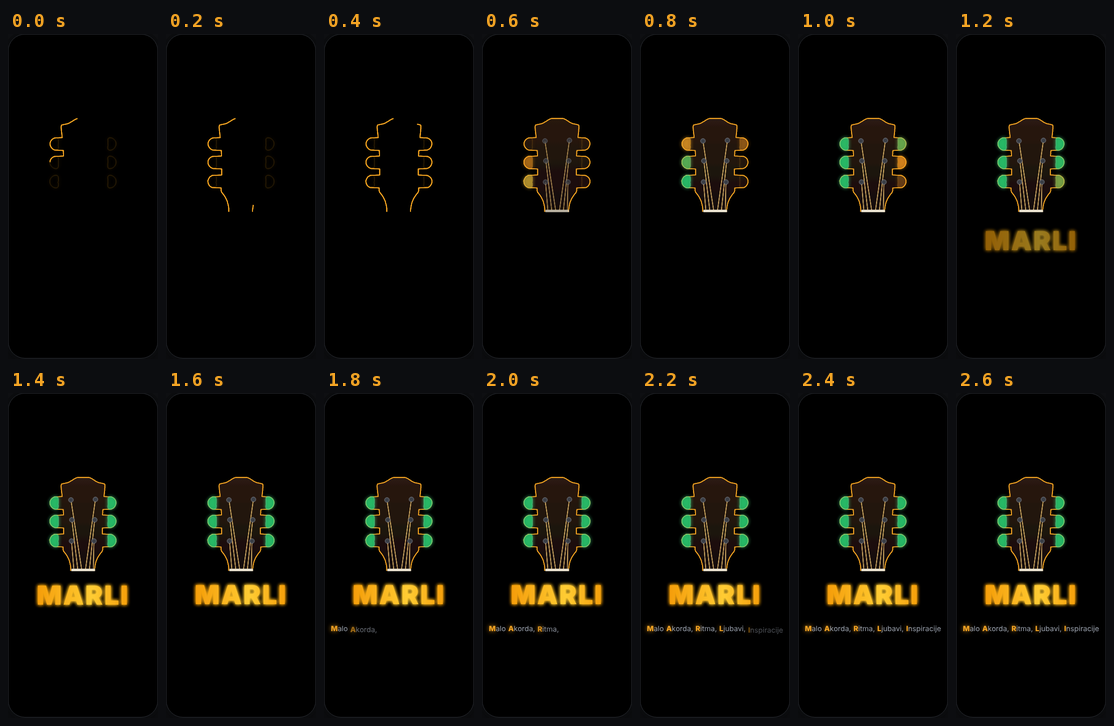
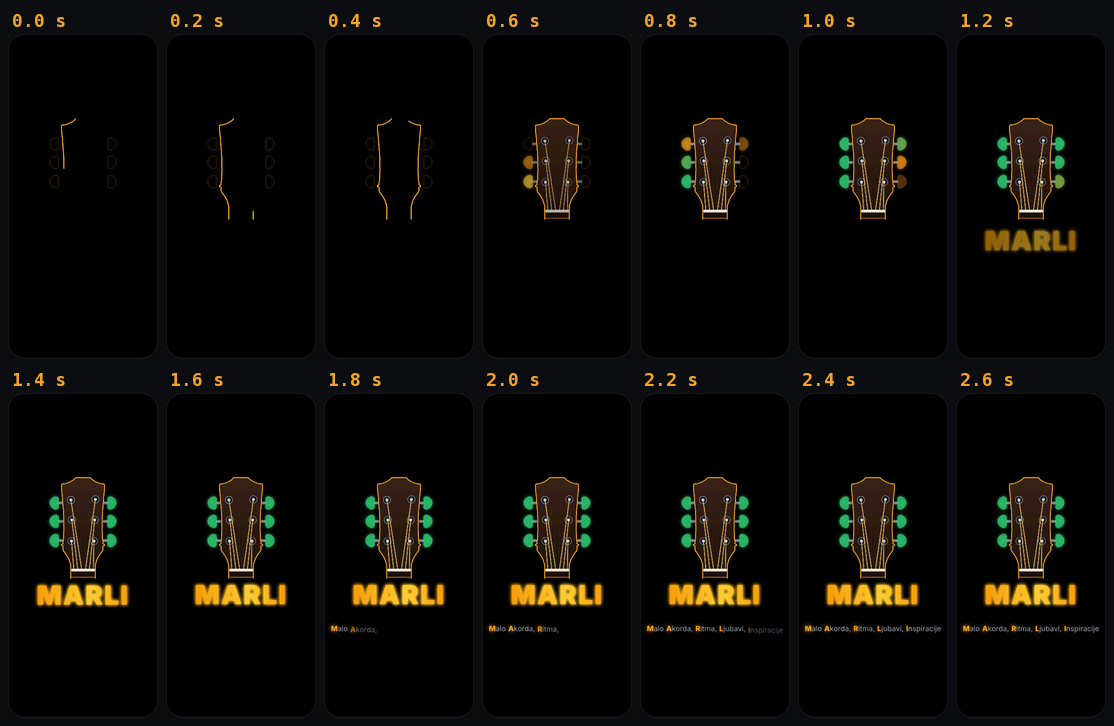
MARLI, faza 1: detaljnija i vitkija silueta glave gitare iz tunera (obris drveta, ključevi sa osovinama, klinovi, žice, sedlo) u ikonici B i animaciji 4b
Claude-Session: https://claude.ai/code/session_01NDUSKUN97fWP9dPBbYtahr

diff --git a/docs/marli/index.html b/docs/marli/index.html
@@ -218,7 +218,7 @@
     </div>
     <div class="card anim-card">
       <h3><span class="tag">4b</span> Čivije — silueta iz tunera</h3>
-      <p class="muted small">Obris iste glave gitare iz tunera se iscrta zlatnom linijom (kao ikonica B), ključevi se uštimuju jedan po jedan, a ispod izraste MARLI. Zatim reč po reč.</p>
+      <p class="muted small">Detaljna silueta iste glave gitare iz tunera (obris, ključevi, klinovi, žice, sedlo) se iscrta zlatnom linijom — ista kao ikonica B. Ključevi se uštimuju jedan po jedan, a ispod izraste MARLI. Zatim reč po reč.</p>
       <div class="phone a4b" id="ph4b"></div>
       <div class="timeline"><b></b></div>
       <div class="row"><button class="btn primary" data-replay="4b">↻ Pusti ponovo</button><button class="btn" data-slow="4b">🐢 Usporeno 4×</button></div>
@@ -301,11 +301,25 @@ function wavePath(x0, x1, y, amp, waves = 2, phase = 0, step = 4) {
 // Ikonice (512 × 512, bez zaobljenja — zaobljenje/krug radi sistem)
 // ------------------------------------------------------------------------------------------------
 // Glava gitare iz tunera: fotografija assets/headstock.webp (926 × 1205), obris (silueta) i tačni obrisi šest ključeva (src/headstockKnobs.js)
-const HS = { W: 926, H: 1205, img: '../../assets/headstock.webp', sil: '402,18 386,24 374,30 364,36 354,42 346,48 336,54 324,60 316,66 302,72 286,78 256,84 228,90 224,96 224,102 222,108 222,114 222,120 222,126 224,132 224,138 224,144 224,150 226,156 226,162 226,168 228,174 228,180 228,186 230,192 230,198 232,204 232,210 232,216 232,222 234,228 148,234 136,240 126,246 120,252 114,258 110,264 106,270 104,276 102,282 100,288 100,294 100,300 100,306 102,312 102,318 106,324 108,330 112,336 116,342 122,348 128,354 136,360 150,366 246,372 246,378 246,384 246,390 248,396 246,402 248,408 248,414 248,420 248,426 248,432 146,438 134,444 124,450 118,456 112,462 108,468 106,474 102,480 100,486 100,492 100,498 100,504 100,510 100,516 102,522 104,528 108,534 110,540 116,546 122,552 128,558 138,564 152,570 250,576 250,582 250,588 250,594 250,600 250,606 250,612 250,618 250,624 250,630 250,636 250,642 142,648 136,654 124,660 116,666 114,672 110,678 106,684 104,690 102,696 100,702 96,708 98,714 98,720 100,726 102,732 102,738 106,744 108,750 112,756 116,762 122,768 132,774 142,780 244,786 244,792 244,798 244,804 244,810 244,816 246,822 248,828 250,834 256,840 260,846 264,852 270,858 274,864 278,870 282,876 286,882 290,888 292,894 296,900 298,906 302,912 304,918 308,924 310,930 312,936 314,942 314,948 316,954 318,960 320,966 322,972 322,978 324,984 326,990 326,996 326,1002 328,1008 328,1014 328,1020 328,1026 328,1032 328,1038 328,1044 328,1050 328,1056 328,1062 330,1068 332,1074 350,1080 348,1086 342,1092 334,1098 334,1104 334,1110 330,1116 330,1122 330,1128 330,1134 330,1140 330,1146 330,1152 330,1158 330,1164 330,1170 332,1176 332,1182 332,1188 328,1194 328,1200 592,1200 592,1194 592,1188 590,1182 590,1176 590,1170 590,1164 590,1158 590,1152 590,1146 590,1140 590,1134 590,1128 590,1122 590,1116 590,1110 590,1104 590,1098 590,1092 588,1086 588,1080 588,1074 588,1068 590,1062 590,1056 590,1050 590,1044 590,1038 590,1032 590,1026 592,1020 592,1014 594,1008 594,1002 596,996 596,990 598,984 598,978 600,972 602,966 602,960 604,954 606,948 608,942 610,936 612,930 616,924 618,918 620,912 624,906 626,900 630,894 634,888 638,882 642,876 646,870 650,864 654,858 658,852 664,846 670,840 672,834 676,828 678,822 680,816 680,810 680,804 680,798 680,792 680,786 784,780 794,774 802,768 808,762 812,756 816,750 820,744 822,738 824,732 826,726 826,720 826,714 826,708 826,702 824,696 822,690 820,684 816,678 812,672 806,666 798,660 790,654 774,648 676,642 676,636 676,630 676,624 676,618 676,612 676,606 676,600 676,594 676,588 676,582 676,576 772,570 788,564 798,558 804,552 810,546 814,540 818,534 820,528 822,522 824,516 826,510 826,504 826,498 826,492 824,486 822,480 820,474 818,468 814,462 808,456 802,450 792,444 780,438 678,432 678,426 678,420 680,414 680,408 680,402 680,396 680,390 680,384 682,378 682,372 776,366 788,360 800,354 806,348 810,342 814,336 816,330 820,324 822,318 824,312 824,306 826,300 826,294 824,288 824,282 822,276 820,270 816,264 812,258 806,252 800,246 790,240 776,234 694,228 694,222 696,216 696,210 696,204 698,198 698,192 698,186 700,180 700,174 700,168 702,162 702,156 702,150 702,144 702,138 704,132 704,126 704,120 704,114 704,108 704,102 704,96 700,90 678,84 648,78 628,72 616,66 604,60 594,54 588,48 576,42 568,36 558,30 546,24 530,18', knobs: [{"id": 0, "cx": 149.3, "cy": 715.2, "pts": "189.9,714.9 188.3,718.8 186.5,722.6 188.3,727.2 189.9,732.3 191.7,737.9 191.5,743.6 191.4,750.1 191.4,757.8 190.3,765.7 187.7,773.1 183.0,778.4 177.1,782.5 170.4,784.6 163.3,785.3 156.2,784.7 149.4,783.1 142.9,781.1 136.8,778.2 131.2,775.1 125.9,771.4 121.2,767.8 116.9,763.8 112.8,759.6 109.5,755.1 106.4,750.4 104.0,745.4 101.8,740.6 100.1,735.5 98.7,730.5 97.8,725.4 97.3,720.2 97.4,715.2 97.3,710.0 97.8,704.8 98.3,699.6 99.8,694.7 101.5,689.6 104.0,684.8 106.6,680.1 109.7,675.5 113.1,670.9 116.9,666.5 121.1,662.4 125.9,658.7 131.1,655.0 136.8,652.0 142.9,649.4 149.4,647.3 156.2,645.8 163.3,645.0 170.4,645.6 177.2,647.6 183.3,651.3 187.9,656.8 190.4,664.4 191.4,672.4 191.4,680.1 191.5,686.6 191.7,692.3 191.7,697.5 191.8,702.2 191.8,706.6 191.7,711.0"}, {"id": 1, "cx": 149.7, "cy": 502.7, "pts": "191.6,502.7 191.8,506.9 191.5,511.0 191.5,515.5 191.4,520.2 191.7,525.4 191.6,530.9 191.6,537.4 191.4,544.9 190.4,552.7 187.9,560.2 183.3,566.0 177.6,570.0 170.8,572.0 163.7,572.5 156.7,571.9 149.9,570.2 143.4,568.0 137.5,565.0 132.0,561.9 126.9,558.4 122.1,554.7 117.9,550.6 114.0,546.5 110.6,542.0 107.7,537.4 105.2,532.6 102.7,527.9 100.8,523.1 99.4,518.0 98.2,513.0 97.5,507.9 97.1,502.7 97.1,497.5 97.4,492.4 98.5,487.2 99.9,482.0 102.0,477.2 104.1,472.1 106.9,467.5 109.9,462.8 113.6,458.6 117.6,454.5 121.9,450.4 126.6,446.7 131.9,443.4 137.5,440.7 143.5,437.9 149.9,435.8 156.6,434.2 163.6,433.6 170.7,433.9 177.4,436.0 183.3,439.7 187.9,445.2 190.5,452.6 191.4,460.6 191.6,468.0 191.6,474.5 191.7,480.1 191.8,485.3 191.9,489.8 191.8,494.3 191.8,498.6"}, {"id": 2, "cx": 149.9, "cy": 299.2, "pts": "191.5,299.2 191.4,303.3 190.2,307.2 188.7,310.9 188.8,315.6 189.9,321.0 191.5,327.3 191.4,333.5 191.2,341.0 190.2,348.8 187.8,356.2 183.2,361.6 177.4,365.5 170.7,367.5 163.8,368.6 156.9,368.1 150.1,366.8 143.6,364.5 137.7,361.6 132.1,358.2 127.0,354.8 122.2,351.3 118.0,347.2 114.3,342.8 111.2,338.0 108.2,333.5 105.7,328.7 103.6,324.0 101.9,319.1 100.7,314.1 99.3,309.3 98.7,304.3 98.2,299.2 98.3,294.1 98.6,289.0 99.4,283.8 100.7,278.7 102.5,273.8 104.8,269.0 107.4,264.3 110.5,259.7 113.9,255.2 118.0,251.2 122.3,247.5 127.1,243.9 132.2,240.5 137.8,237.3 143.7,234.5 150.0,232.4 156.8,231.1 163.6,230.8 170.7,231.1 177.2,233.4 183.2,236.8 187.7,242.3 190.3,249.4 191.2,257.4 191.4,264.9 191.5,271.1 191.6,276.8 191.6,281.7 191.6,286.4 191.6,290.9 191.8,295.1"}, {"id": 3, "cx": 777.1, "cy": 299.4, "pts": "827.4,299.3 827.0,304.3 826.5,309.2 825.4,314.0 823.8,318.7 821.6,323.2 819.6,327.9 817.5,332.7 815.1,337.5 812.0,342.1 808.4,346.4 804.3,350.5 799.8,354.5 794.8,358.2 789.2,361.1 783.3,364.0 776.9,366.3 770.2,368.0 763.2,368.6 756.2,368.0 749.3,366.3 743.3,362.7 738.9,357.0 736.4,349.5 735.7,341.3 735.6,333.8 736.9,326.7 738.1,320.5 739.3,315.1 739.2,310.9 738.9,307.0 738.6,303.2 738.2,299.4 737.9,295.5 737.9,291.6 737.9,287.5 738.3,283.2 738.3,278.5 738.4,273.3 738.5,267.4 737.6,259.2 737.4,250.3 738.9,241.8 743.4,236.2 749.4,232.8 756.3,231.0 763.3,230.6 770.2,231.2 777.0,232.6 783.3,234.6 789.3,237.3 794.8,240.5 799.8,244.3 804.5,247.9 808.8,251.8 812.8,255.8 816.2,260.3 819.0,264.9 821.5,269.7 823.7,274.5 825.4,279.3 826.4,284.4 827.1,289.4 827.3,294.4"}, {"id": 4, "cx": 776.8, "cy": 502.6, "pts": "827.7,502.6 827.4,507.7 826.6,512.6 825.7,517.5 824.3,522.4 822.7,527.2 820.5,532.0 818.1,536.7 815.4,541.4 811.9,545.6 808.2,549.8 804.0,553.7 799.4,557.7 794.5,561.4 789.0,564.8 783.0,567.4 776.7,569.5 770.0,570.8 762.9,571.8 755.6,571.9 748.7,570.4 742.6,567.0 738.4,560.7 736.3,552.7 735.6,544.4 735.6,536.8 735.4,530.6 735.4,524.9 735.2,520.0 736.2,515.1 737.3,510.7 738.3,506.5 738.4,502.6 738.3,498.9 738.4,495.0 738.3,490.9 738.5,486.7 738.5,482.0 737.5,476.0 736.6,469.1 735.6,460.9 736.4,452.8 738.8,445.4 743.2,439.6 749.1,435.8 755.9,433.8 762.9,433.6 770.0,434.3 776.7,435.7 783.0,437.7 789.0,440.4 794.6,443.4 799.9,446.8 804.6,450.4 808.8,454.6 812.6,459.0 816.0,463.4 819.1,467.8 821.8,472.6 824.0,477.4 825.6,482.4 826.7,487.5 827.3,492.6 827.8,497.7"}, {"id": 5, "cx": 777, "cy": 715.2, "pts": "828.0,715.2 827.9,720.2 827.4,725.3 826.3,730.2 825.1,735.2 823.3,740.0 821.5,745.1 819.0,749.9 816.3,754.6 812.8,759.0 809.1,763.5 804.9,767.6 800.2,771.3 795.0,774.8 789.3,777.9 783.4,780.7 776.9,782.9 770.1,784.5 762.9,785.4 755.8,785.1 748.9,783.3 742.7,779.6 738.4,773.5 736.3,765.5 735.7,757.1 735.6,749.6 736.4,742.8 737.3,736.7 738.2,731.4 738.2,727.1 738.2,723.0 737.8,719.0 737.7,715.2 737.4,711.3 737.5,707.3 737.6,703.2 737.9,698.9 738.2,694.3 737.4,688.4 736.5,681.5 735.7,673.4 736.2,664.7 738.4,657.0 742.7,651.1 749.0,647.7 755.9,645.6 762.9,644.8 770.0,645.5 776.9,647.1 783.3,649.6 789.3,652.6 794.9,656.0 800.1,659.5 804.8,663.0 809.0,667.1 812.8,671.5 816.2,676.0 819.5,680.3 822.1,685.0 824.1,690.0 825.5,695.0 826.6,700.1 827.4,705.2 827.9,710.2"}] };
+const HS = { W: 926, H: 1205, img: '../../assets/headstock.webp', sil: '384,20 377,26 372,32 366,38 359,44 350,50 340,56 329,62 322,68 304,74 289,80 268,86 230,92 227,98 226,104 226,110 226,116 226,122 226,128 226,134 227,140 227,146 227,152 228,158 228,164 228,170 229,176 229,182 230,188 231,194 233,200 233,206 234,212 234,218 234,224 235,230 236,236 236,242 237,248 237,254 237,260 238,266 238,272 238,278 238,284 238,290 239,296 240,302 240,308 240,314 243,320 243,326 243,332 243,338 243,344 243,350 244,356 245,362 246,368 246,374 247,380 247,386 248,392 249,398 249,404 249,410 249,416 249,422 249,428 250,434 250,440 251,446 251,452 251,458 251,464 251,470 251,476 251,482 251,488 251,494 251,500 251,506 251,512 251,518 251,524 251,530 251,536 251,542 251,548 251,554 251,560 252,566 252,572 252,578 252,584 252,590 252,596 252,602 251,608 251,614 251,620 251,626 251,632 251,638 250,644 250,650 250,656 250,662 250,668 250,674 250,680 250,686 249,692 248,698 248,704 248,710 243,716 243,722 243,728 243,734 243,740 243,746 243,752 226,758 226,764 226,770 244,776 244,782 244,788 244,794 244,800 244,806 244,812 245,818 246,824 248,830 254,836 259,842 264,848 267,854 272,860 276,866 280,872 284,878 288,884 291,890 294,896 297,902 301,908 303,914 309,920 310,926 311,932 315,938 316,944 316,950 319,956 320,962 324,968 325,974 326,980 327,986 328,992 328,998 328,1004 328,1010 328,1016 328,1022 328,1205 598,1205 598,1022 598,1016 598,1010 598,1004 598,998 598,992 599,986 600,980 601,974 602,968 606,962 607,956 610,950 610,944 611,938 615,932 616,926 617,920 623,914 625,908 629,902 632,896 635,890 638,884 642,878 646,872 650,866 654,860 659,854 662,848 667,842 672,836 678,830 680,824 681,818 682,812 682,806 682,800 682,794 682,788 682,782 682,776 700,770 700,764 700,758 683,752 683,746 683,740 683,734 683,728 683,722 683,716 678,710 678,704 678,698 677,692 676,686 676,680 676,674 676,668 676,662 676,656 676,650 676,644 675,638 675,632 675,626 675,620 675,614 675,608 674,602 674,596 674,590 674,584 674,578 674,572 674,566 675,560 675,554 675,548 675,542 675,536 675,530 675,524 675,518 675,512 675,506 675,500 675,494 675,488 675,482 675,476 675,470 675,464 675,458 675,452 675,446 676,440 676,434 677,428 677,422 677,416 677,410 677,404 677,398 678,392 679,386 679,380 680,374 680,368 681,362 682,356 683,350 683,344 683,338 683,332 683,326 683,320 686,314 686,308 686,302 687,296 688,290 688,284 688,278 688,272 688,266 689,260 689,254 689,248 690,242 690,236 691,230 692,224 692,218 692,212 693,206 693,200 695,194 696,188 697,182 697,176 698,170 698,164 698,158 699,152 699,146 699,140 700,134 700,128 700,122 700,116 700,110 700,104 699,98 696,92 658,86 637,80 622,74 604,68 597,62 586,56 576,50 567,44 560,38 554,32 549,26 542,20', knobs: [{"id": 0, "cx": 149.3, "cy": 715.2, "pts": "189.9,714.9 188.3,718.8 186.5,722.6 188.3,727.2 189.9,732.3 191.7,737.9 191.5,743.6 191.4,750.1 191.4,757.8 190.3,765.7 187.7,773.1 183.0,778.4 177.1,782.5 170.4,784.6 163.3,785.3 156.2,784.7 149.4,783.1 142.9,781.1 136.8,778.2 131.2,775.1 125.9,771.4 121.2,767.8 116.9,763.8 112.8,759.6 109.5,755.1 106.4,750.4 104.0,745.4 101.8,740.6 100.1,735.5 98.7,730.5 97.8,725.4 97.3,720.2 97.4,715.2 97.3,710.0 97.8,704.8 98.3,699.6 99.8,694.7 101.5,689.6 104.0,684.8 106.6,680.1 109.7,675.5 113.1,670.9 116.9,666.5 121.1,662.4 125.9,658.7 131.1,655.0 136.8,652.0 142.9,649.4 149.4,647.3 156.2,645.8 163.3,645.0 170.4,645.6 177.2,647.6 183.3,651.3 187.9,656.8 190.4,664.4 191.4,672.4 191.4,680.1 191.5,686.6 191.7,692.3 191.7,697.5 191.8,702.2 191.8,706.6 191.7,711.0"}, {"id": 1, "cx": 149.7, "cy": 502.7, "pts": "191.6,502.7 191.8,506.9 191.5,511.0 191.5,515.5 191.4,520.2 191.7,525.4 191.6,530.9 191.6,537.4 191.4,544.9 190.4,552.7 187.9,560.2 183.3,566.0 177.6,570.0 170.8,572.0 163.7,572.5 156.7,571.9 149.9,570.2 143.4,568.0 137.5,565.0 132.0,561.9 126.9,558.4 122.1,554.7 117.9,550.6 114.0,546.5 110.6,542.0 107.7,537.4 105.2,532.6 102.7,527.9 100.8,523.1 99.4,518.0 98.2,513.0 97.5,507.9 97.1,502.7 97.1,497.5 97.4,492.4 98.5,487.2 99.9,482.0 102.0,477.2 104.1,472.1 106.9,467.5 109.9,462.8 113.6,458.6 117.6,454.5 121.9,450.4 126.6,446.7 131.9,443.4 137.5,440.7 143.5,437.9 149.9,435.8 156.6,434.2 163.6,433.6 170.7,433.9 177.4,436.0 183.3,439.7 187.9,445.2 190.5,452.6 191.4,460.6 191.6,468.0 191.6,474.5 191.7,480.1 191.8,485.3 191.9,489.8 191.8,494.3 191.8,498.6"}, {"id": 2, "cx": 149.9, "cy": 299.2, "pts": "191.5,299.2 191.4,303.3 190.2,307.2 188.7,310.9 188.8,315.6 189.9,321.0 191.5,327.3 191.4,333.5 191.2,341.0 190.2,348.8 187.8,356.2 183.2,361.6 177.4,365.5 170.7,367.5 163.8,368.6 156.9,368.1 150.1,366.8 143.6,364.5 137.7,361.6 132.1,358.2 127.0,354.8 122.2,351.3 118.0,347.2 114.3,342.8 111.2,338.0 108.2,333.5 105.7,328.7 103.6,324.0 101.9,319.1 100.7,314.1 99.3,309.3 98.7,304.3 98.2,299.2 98.3,294.1 98.6,289.0 99.4,283.8 100.7,278.7 102.5,273.8 104.8,269.0 107.4,264.3 110.5,259.7 113.9,255.2 118.0,251.2 122.3,247.5 127.1,243.9 132.2,240.5 137.8,237.3 143.7,234.5 150.0,232.4 156.8,231.1 163.6,230.8 170.7,231.1 177.2,233.4 183.2,236.8 187.7,242.3 190.3,249.4 191.2,257.4 191.4,264.9 191.5,271.1 191.6,276.8 191.6,281.7 191.6,286.4 191.6,290.9 191.8,295.1"}, {"id": 3, "cx": 777.1, "cy": 299.4, "pts": "827.4,299.3 827.0,304.3 826.5,309.2 825.4,314.0 823.8,318.7 821.6,323.2 819.6,327.9 817.5,332.7 815.1,337.5 812.0,342.1 808.4,346.4 804.3,350.5 799.8,354.5 794.8,358.2 789.2,361.1 783.3,364.0 776.9,366.3 770.2,368.0 763.2,368.6 756.2,368.0 749.3,366.3 743.3,362.7 738.9,357.0 736.4,349.5 735.7,341.3 735.6,333.8 736.9,326.7 738.1,320.5 739.3,315.1 739.2,310.9 738.9,307.0 738.6,303.2 738.2,299.4 737.9,295.5 737.9,291.6 737.9,287.5 738.3,283.2 738.3,278.5 738.4,273.3 738.5,267.4 737.6,259.2 737.4,250.3 738.9,241.8 743.4,236.2 749.4,232.8 756.3,231.0 763.3,230.6 770.2,231.2 777.0,232.6 783.3,234.6 789.3,237.3 794.8,240.5 799.8,244.3 804.5,247.9 808.8,251.8 812.8,255.8 816.2,260.3 819.0,264.9 821.5,269.7 823.7,274.5 825.4,279.3 826.4,284.4 827.1,289.4 827.3,294.4"}, {"id": 4, "cx": 776.8, "cy": 502.6, "pts": "827.7,502.6 827.4,507.7 826.6,512.6 825.7,517.5 824.3,522.4 822.7,527.2 820.5,532.0 818.1,536.7 815.4,541.4 811.9,545.6 808.2,549.8 804.0,553.7 799.4,557.7 794.5,561.4 789.0,564.8 783.0,567.4 776.7,569.5 770.0,570.8 762.9,571.8 755.6,571.9 748.7,570.4 742.6,567.0 738.4,560.7 736.3,552.7 735.6,544.4 735.6,536.8 735.4,530.6 735.4,524.9 735.2,520.0 736.2,515.1 737.3,510.7 738.3,506.5 738.4,502.6 738.3,498.9 738.4,495.0 738.3,490.9 738.5,486.7 738.5,482.0 737.5,476.0 736.6,469.1 735.6,460.9 736.4,452.8 738.8,445.4 743.2,439.6 749.1,435.8 755.9,433.8 762.9,433.6 770.0,434.3 776.7,435.7 783.0,437.7 789.0,440.4 794.6,443.4 799.9,446.8 804.6,450.4 808.8,454.6 812.6,459.0 816.0,463.4 819.1,467.8 821.8,472.6 824.0,477.4 825.6,482.4 826.7,487.5 827.3,492.6 827.8,497.7"}, {"id": 5, "cx": 777, "cy": 715.2, "pts": "828.0,715.2 827.9,720.2 827.4,725.3 826.3,730.2 825.1,735.2 823.3,740.0 821.5,745.1 819.0,749.9 816.3,754.6 812.8,759.0 809.1,763.5 804.9,767.6 800.2,771.3 795.0,774.8 789.3,777.9 783.4,780.7 776.9,782.9 770.1,784.5 762.9,785.4 755.8,785.1 748.9,783.3 742.7,779.6 738.4,773.5 736.3,765.5 735.7,757.1 735.6,749.6 736.4,742.8 737.3,736.7 738.2,731.4 738.2,727.1 738.2,723.0 737.8,719.0 737.7,715.2 737.4,711.3 737.5,707.3 737.6,703.2 737.9,698.9 738.2,694.3 737.4,688.4 736.5,681.5 735.7,673.4 736.2,664.7 738.4,657.0 742.7,651.1 749.0,647.7 755.9,645.6 762.9,644.8 770.0,645.5 776.9,647.1 783.3,649.6 789.3,652.6 794.9,656.0 800.1,659.5 804.8,663.0 809.0,667.1 812.8,671.5 816.2,676.0 819.5,680.3 822.1,685.0 824.1,690.0 825.5,695.0 826.6,700.1 827.4,705.2 827.9,710.2"}] };
 // žice od klinova do sedla, kao na fotografiji (koordinate fotografije)
 const HS_POST = [[336, 720], [340, 486], [330, 266], [600, 260], [592, 486], [584, 720]], HS_NUT = [362, 405, 448, 491, 534, 577];
 const HS_STRINGS = HS_POST.map(([x, y], i) => `<line x1="${x}" y1="${y}" x2="${HS_NUT[i]}" y2="1030"/>`).join('');
 const HS_POSTS = HS_POST.map(([x, y]) => `<circle cx="${x}" cy="${y}" r="26"/>`).join('');
+// Detaljna silueta glave gitare iz tunera: obris drveta, šest ključeva sa osovinama, klinovi sa podloškama, žice, sedlo, vrat
+const HS_POSTS2 = HS_POST.map(([x, y]) => `<circle cx="${x}" cy="${y}" r="40" fill="#0d0d0f" stroke="#9aa1ad" stroke-width="6"/><circle cx="${x}" cy="${y}" r="17" fill="#c9ced6"/>`).join('');
+const HS_SHAFTS = HS.knobs.map((k) => { const left = k.cx < 463, x0 = left ? k.cx + 40 : 686, x1 = left ? 240 : k.cx - 40; return `<rect x="${Math.min(x0, x1)}" y="${k.cy - 12}" width="${Math.abs(x1 - x0)}" height="24" rx="6"/>`; }).join('');
+function hsDetail(id, g, { cls = false } = {}) {
+  const c = (n) => (cls ? ` class="${n}"` : '');
+  const grain = [400, 445, 485, 525].map((x, i) => `<path d="M${x},${90 + i * 14} C${x - 8},420 ${x + 10},700 ${x - 4},1000" />`).join('');
+  return `<polygon${c('hsil')} pathLength="1" points="${HS.sil}" fill="url(#wd${id})" stroke="${GOLD}" stroke-width="9" stroke-linejoin="round" filter="url(#${g})"/>
+    <g${c('hstr')} fill="none" stroke="#3a2418" stroke-width="5" opacity=".9">${grain}</g>
+    <g${c('hstr')} fill="#7a808a" stroke="#c9ced6" stroke-width="3">${HS_SHAFTS}</g>
+    <g${c('hstr')}>${HS_POSTS2}</g>
+    <g${c('hstr')} stroke="${CORE}" stroke-width="5" filter="url(#${g})">${HS_STRINGS}</g>
+    <rect${c('hstr')} x="334" y="1026" width="262" height="30" rx="8" fill="#efe6d2"/>
+    <g${c('hstr')} stroke="${GOLD}" stroke-width="6" opacity=".7"><line x1="332" y1="1120" x2="594" y2="1120"/></g>`;
+}
 const ICONS = {
   A: {
     name: 'Žica ispisuje ime',
@@ -328,22 +342,20 @@ const ICONS = {
   },
   B: {
     name: 'Glava gitare (silueta iz tunera)',
-    note: 'Obris glave gitare iz tunera, ključevi sijaju zlatno kao naštimovana žica, ime krupno ispod.',
+    note: 'Detaljna silueta glave gitare iz tunera: obris, ključevi, klinovi, žice i sedlo; ključevi zlatno sijaju. Ime krupno ispod.',
     svg(id) {
-      const g = 'g' + id, k = 0.3, tx = 256 - HS.W * k / 2, ty = 12;
+      const g = 'g' + id, k = 0.3, tx = 256 - HS.W * k / 2, ty = 10;
       const knobs = HS.knobs.map((kn) => `<polygon points="${kn.pts}"/>`).join('');
-      return `<svg viewBox="0 0 512 512" xmlns="http://www.w3.org/2000/svg"><defs>${glowDefs(g, 9)}
+      return `<svg viewBox="0 0 512 512" xmlns="http://www.w3.org/2000/svg"><defs>${glowDefs(g, 8)}
         <linearGradient id="lg${id}" gradientUnits="userSpaceOnUse" x1="0" y1="0" x2="512" y2="0"><stop offset="0" stop-color="#f59e0b"/><stop offset=".6" stop-color="#ffcc33"/><stop offset="1" stop-color="#f59e0b"/></linearGradient>
-        <linearGradient id="wd${id}" x1="0" y1="0" x2="0" y2="1"><stop offset="0" stop-color="#2a1a12"/><stop offset="1" stop-color="#120b07"/></linearGradient>
-        <clipPath id="cl${id}"><rect x="0" y="0" width="${HS.W}" height="1030"/></clipPath></defs>
+        <linearGradient id="wd${id}" x1="0" y1="0" x2="0" y2="1"><stop offset="0" stop-color="#3a2216"/><stop offset="1" stop-color="#1a0f09"/></linearGradient>
+        <clipPath id="cl${id}"><rect x="0" y="0" width="${HS.W}" height="1135"/></clipPath></defs>
         <rect width="512" height="512" fill="#000"/>
         <g transform="translate(${tx.toFixed(1)} ${ty}) scale(${k})" clip-path="url(#cl${id})">
-          <polygon points="${HS.sil}" fill="url(#wd${id})" stroke="${GOLD}" stroke-width="10" stroke-linejoin="round" filter="url(#${g})"/>
+          ${hsDetail(id, g)}
           <g fill="${GOLD}" stroke="${CORE}" stroke-width="6" filter="url(#${g})">${knobs}</g>
-          <g stroke="${CORE}" stroke-width="6" opacity=".9" filter="url(#${g})">${HS_STRINGS}</g><g fill="#3a3e46" stroke="#8a8f99" stroke-width="5">${HS_POSTS}</g>
-          <rect x="334" y="1026" width="262" height="30" rx="8" fill="#e9e1cf"/>
         </g>
-        <text x="256" y="452" text-anchor="middle" font-family="system-ui, -apple-system, 'Segoe UI', Roboto, Arial, sans-serif" font-weight="900" font-size="104" letter-spacing="6" fill="url(#lg${id})" filter="url(#${g})">MARLI</text>
+        <text x="256" y="460" text-anchor="middle" font-family="system-ui, -apple-system, 'Segoe UI', Roboto, Arial, sans-serif" font-weight="900" font-size="104" letter-spacing="6" fill="url(#lg${id})" filter="url(#${g})">MARLI</text>
         </svg>`;
     },
   },
@@ -522,15 +534,15 @@ function headstockAnim(photo) {
   const knobs = HS.knobs.map((kn) => `<polygon class="kn" points="${kn.pts}" style="animation-delay:${(0.42 + order.indexOf(kn.id) * 0.11).toFixed(2)}s"/>`).join('');
   const art = photo
     ? `<image class="hsimg" href="${HS.img}" xlink:href="${HS.img}" width="${HS.W}" height="${HS.H}" mask="url(#mk${id})"/>`
-    : `<polygon class="hsil" pathLength="1" points="${HS.sil}" fill="url(#wd${id})" stroke="${GOLD}" stroke-width="10" stroke-linejoin="round" filter="url(#${g})"/><g class="hstr" stroke="${CORE}" stroke-width="5" filter="url(#${g})">${HS_STRINGS}</g><g class="hstr" fill="#3a3e46" stroke="#8a8f99" stroke-width="5">${HS_POSTS}</g><rect class="hstr" x="334" y="1026" width="262" height="30" rx="8" fill="#e9e1cf"/>`;
+    : hsDetail(id, g, { cls: true });
   return `<div class="stage">
     <svg viewBox="0 0 320 310" width="100%" style="max-width:290px;overflow:visible" aria-label="MARLI" xmlns:xlink="http://www.w3.org/1999/xlink">
       <defs>${glowDefs(g, 4)}<linearGradient id="lg${id}" gradientUnits="userSpaceOnUse" x1="60" y1="0" x2="260" y2="0"><stop offset="0" stop-color="#f59e0b"/><stop offset=".6" stop-color="#ffcc33"/><stop offset="1" stop-color="#f59e0b"/></linearGradient>
         <filter id="kg${id}" filterUnits="userSpaceOnUse" x="-200" y="-200" width="1400" height="1600"><feGaussianBlur stdDeviation="22" result="b"/><feMerge><feMergeNode in="b"/><feMergeNode in="SourceGraphic"/></feMerge></filter>
-        <linearGradient id="wd${id}" x1="0" y1="0" x2="0" y2="1"><stop offset="0" stop-color="#2a1a12"/><stop offset="1" stop-color="#120b07"/></linearGradient>
+        <linearGradient id="wd${id}" x1="0" y1="0" x2="0" y2="1"><stop offset="0" stop-color="#3a2216"/><stop offset="1" stop-color="#1a0f09"/></linearGradient>
         <linearGradient id="fade${id}" x1="0" y1="0" x2="0" y2="1"><stop offset=".7" stop-color="#fff"/><stop offset="1" stop-color="#000"/></linearGradient>
         <mask id="mk${id}"><rect width="${HS.W}" height="${HS.H}" fill="url(#fade${id})"/></mask>
-        <clipPath id="cl${id}"><rect x="0" y="0" width="${HS.W}" height="1050"/></clipPath></defs>
+        <clipPath id="cl${id}"><rect x="0" y="0" width="${HS.W}" height="1135"/></clipPath></defs>
       <g transform="translate(${tx.toFixed(1)} ${ty}) scale(${k})" clip-path="${photo ? '' : `url(#cl${id})`}">
         ${art}
         <g class="kns" filter="url(#kg${id})">${knobs}</g>
